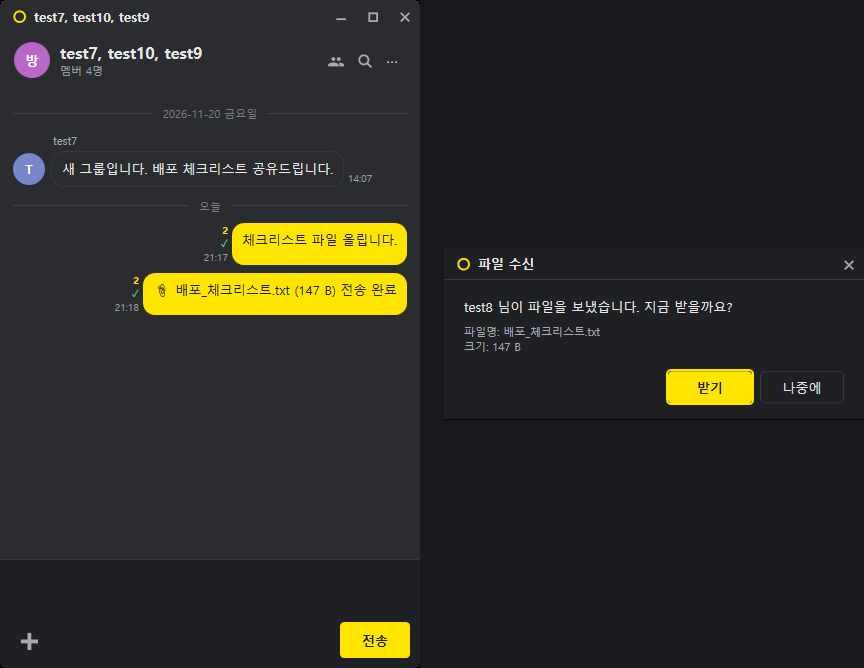
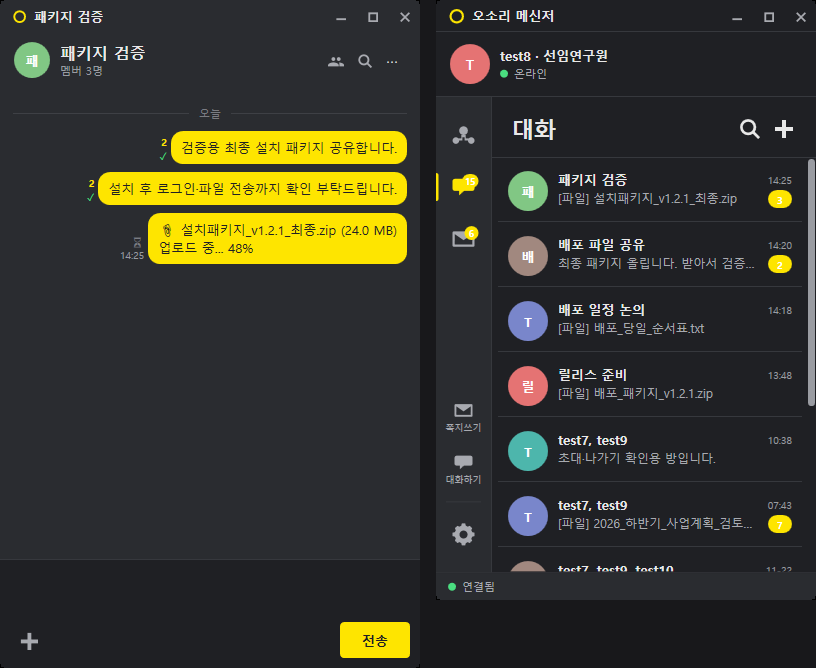
README: 화면 이미지와 테스트 수 갱신

diff --git a/README.md b/README.md
@@ -5,7 +5,7 @@
 
 ![메인 화면](docs/images/main.png)
 
-| 대화 주고받기 | 그룹 방 파일 전송 |
+| 대화 주고받기 | 그룹 방 파일 전송(업로드 진행률) |
 |---|---|
 | ![대화](docs/images/chat.gif) | ![그룹 방 파일 전송](docs/images/group_file.png) |
 
@@ -39,7 +39,7 @@ flowchart LR
 
 ## 품질
 
-- 자동 테스트: 서버 258개(DB·WebSocket 통합 테스트 포함), 클라이언트 127개
+- 자동 테스트: 서버 266개(DB·WebSocket 통합 테스트 포함), 클라이언트 172개
 - GitHub Actions CI: 서버(PostgreSQL 컨테이너 포함)·클라이언트 빌드와 테스트
 - 운영 구성: Docker Compose, DB 백업, 로그 회전, 설치 프로그램(Inno Setup)
 
